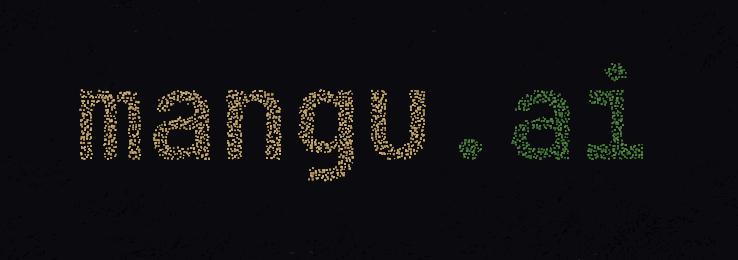
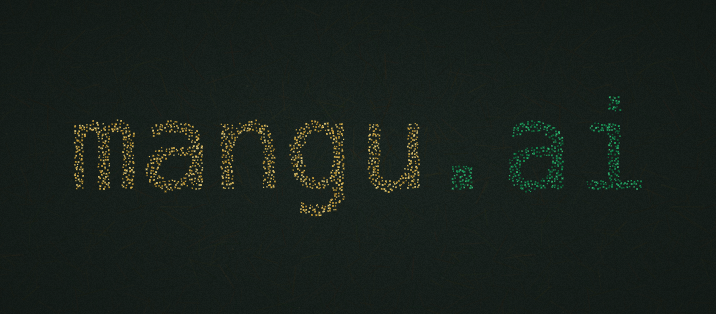
new image

Changed region(s): [[0.0922, 0.2462, 0.8911, 0.7077], [0.6145, 0.3385, 0.6453, 0.3692]]

diff --git a/src/flow.js b/src/flow.js
@@ -95,6 +95,8 @@ export function initFlow(canvas) {
 
   const isMobile = window.innerWidth < 768;
   const ambientCount = isMobile ? 300 : 1200;
+  const convergeFrames = isMobile ? 50 : CONVERGE_FRAMES;
+  const springBack = isMobile ? 0.07 : SPRING_BACK;
   // cap DPR at 2 — 3x on iPhones is overkill for particles
   const dpr = Math.min(devicePixelRatio, 2);
   let ambientParticles;
@@ -132,7 +134,7 @@ export function initFlow(canvas) {
   }
 
   function buildTextParticles() {
-    const fontSize = Math.min(w * 0.12, 120);
+    const fontSize = Math.min(w * 0.18, 200);
     const font = `500 ${fontSize}px 'JetBrains Mono', monospace`;
     const targets = sampleText('mangu.ai', font, w, h);
     const maxDist = Math.sqrt(w * w + h * h) / 2;
@@ -218,7 +220,7 @@ export function initFlow(canvas) {
 
     // ── Text particles ─────────────────────────
     if (textParticles && textFrame >= 0) {
-      const raw = Math.max(0, Math.min(1, textFrame / CONVERGE_FRAMES));
+      const raw = Math.max(0, Math.min(1, textFrame / convergeFrames));
       const globalOrder = raw * raw * (3 - 2 * raw);
 
       for (let i = 0; i < textParticles.length; i++) {
@@ -239,11 +241,11 @@ export function initFlow(canvas) {
         if (order < 1) {
           const n = noise2D(p.x * NOISE_SCALE + t, p.y * NOISE_SCALE + t);
           const a = n * Math.PI * 4;
-          p.vx += lerp(Math.cos(a) * 0.2, dx * SPRING_BACK, order);
-          p.vy += lerp(Math.sin(a) * 0.2, dy * SPRING_BACK, order);
+          p.vx += lerp(Math.cos(a) * 0.2, dx * springBack, order);
+          p.vy += lerp(Math.sin(a) * 0.2, dy * springBack, order);
         } else {
-          p.vx += dx * SPRING_BACK;
-          p.vy += dy * SPRING_BACK;
+          p.vx += dx * springBack;
+          p.vy += dy * springBack;
         }
 
         // pointer push
